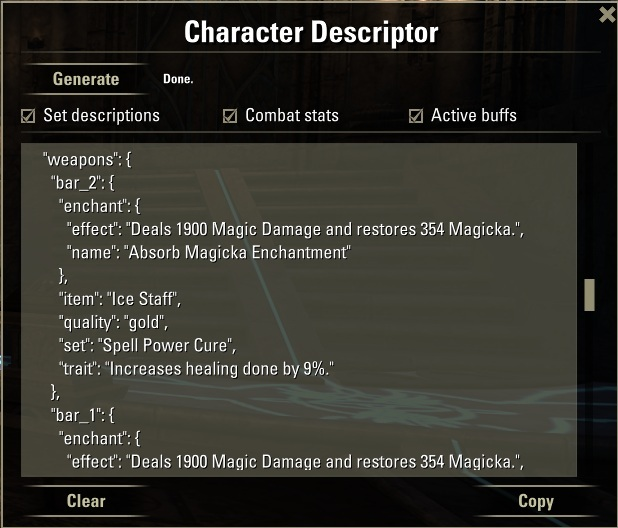
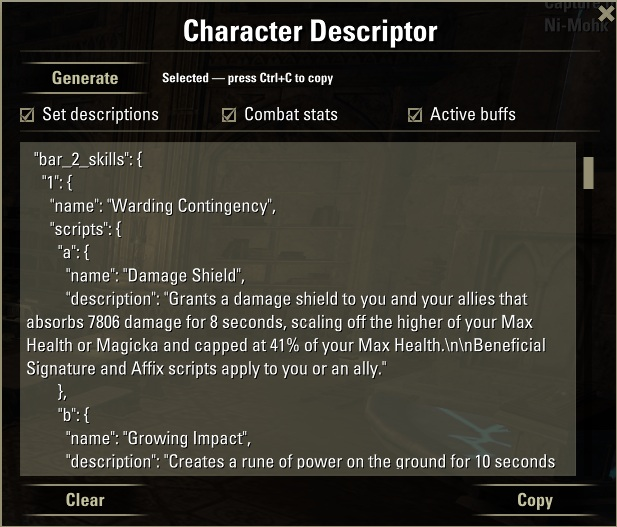
docs: update README to include details about scribing skills in skills section

diff --git a/README.md b/README.md
@@ -11,7 +11,7 @@ A small Elder Scrolls Online addon that exports your character build as JSON, re
 Opens a window with a text box containing a JSON snapshot of your current character:
 
 - **Character** — name, class, race, level, champion points
-- **Skills** — both action bars, including ultimate
+- **Skills** — both action bars, including ultimate; scribing skills include their active scripts (a/b/c) with descriptions
 - **Gear** — each slot with item name, set, quality, trait, and enchant
 - **Set descriptions** *(optional)* — the full text of each equipped set bonus
 - **Combat stats** *(optional)* — max health/magicka/stamina, regen, spell damage, penetration, resistances, and more
